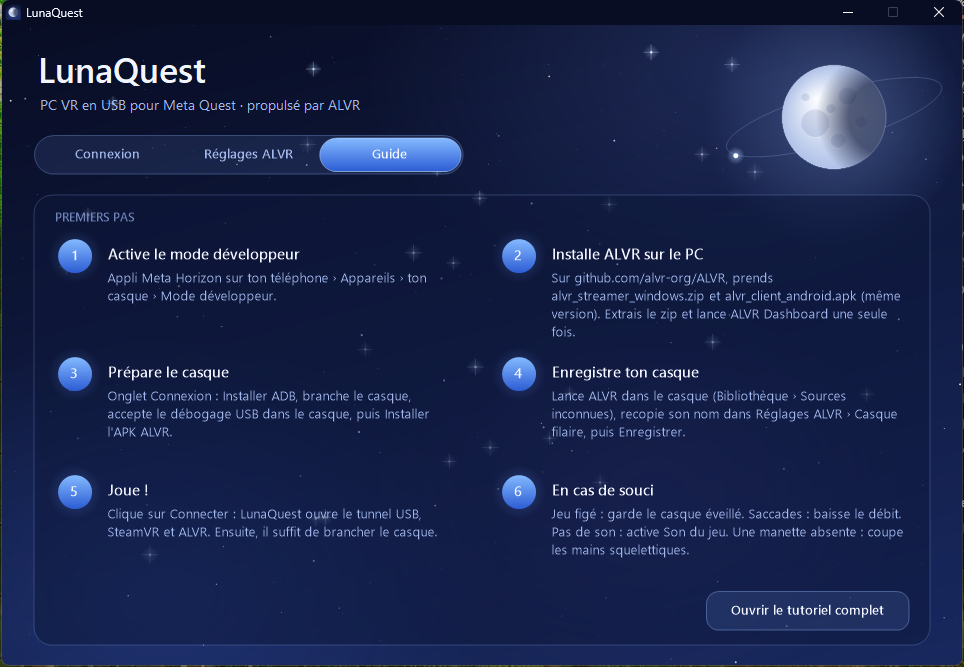
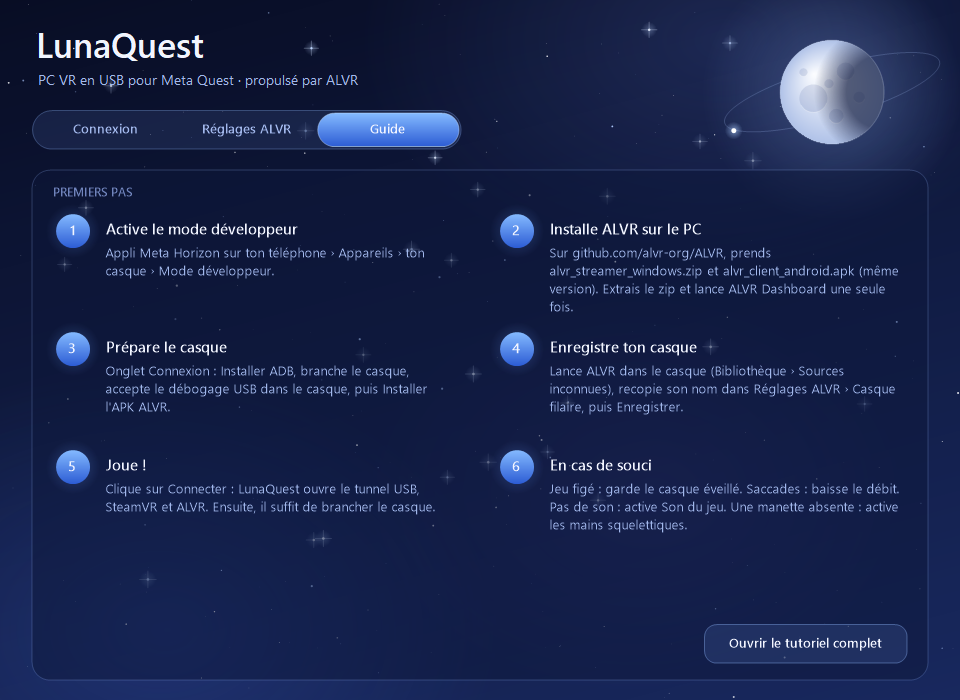
Nouvelles captures d'écran de l'appli (version 0.2.0)

diff --git a/site/index.html b/site/index.html
@@ -404,7 +404,7 @@
       <div class="stage" id="stage">
         <div class="moon" aria-hidden="true"></div>
         <figure class="shot" id="shot">
-          <img src="img/connexion.png" width="964" height="667" alt="Fenêtre de LunaQuest : état du casque, bouton Connecter et journal">
+          <img src="img/connexion.png" width="960" height="700" alt="Fenêtre de LunaQuest : état du casque, bouton Connecter et journal">
         </figure>
       </div>
     </section>
@@ -467,14 +467,14 @@
       </div>
       <div class="preview">
         <div class="tabs" role="tablist" aria-label="Écrans de LunaQuest">
-          <button id="tab-connexion" role="tab" aria-selected="true" data-img="img/connexion.png" data-cap="Connexion : l'état du casque en direct, le gros bouton Connecter et le journal de ce qui se passe.">Connexion</button>
-          <button id="tab-reglages" role="tab" aria-selected="false" data-img="img/reglages.png" data-cap="Réglages ALVR : images par seconde, débit, codec, son, micro et casque filaire, sans ouvrir ALVR.">Réglages ALVR</button>
+          <button id="tab-connexion" role="tab" aria-selected="true" data-img="img/connexion.png" data-cap="Connexion : l'état du casque en direct, le gros bouton Connecter, l'écran du PC dans le casque et le journal de ce qui se passe.">Connexion</button>
+          <button id="tab-reglages" role="tab" aria-selected="false" data-img="img/reglages.png" data-cap="Réglages ALVR : images par seconde, débit, codec, résolution, son, micro, fovéation et tes préréglages, sans ouvrir ALVR.">Réglages ALVR</button>
           <button id="tab-guide" role="tab" aria-selected="false" data-img="img/guide.png" data-cap="Guide : les six étapes pour passer de zéro à ton premier jeu en filaire.">Guide</button>
         </div>
         <div class="viewer" id="viewer" role="tabpanel" aria-labelledby="tab-connexion">
-          <img id="preview-img" src="img/connexion.png" width="964" height="667" alt="Écran Connexion de LunaQuest">
+          <img id="preview-img" src="img/connexion.png" width="960" height="700" alt="Écran Connexion de LunaQuest">
         </div>
-        <p class="caption" id="preview-cap">Connexion : l'état du casque en direct, le gros bouton Connecter et le journal de ce qui se passe.</p>
+        <p class="caption" id="preview-cap">Connexion : l'état du casque en direct, le gros bouton Connecter, l'écran du PC dans le casque et le journal de ce qui se passe.</p>
       </div>
     </section>
 
